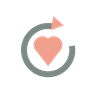
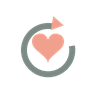
ui: 按压反馈强化(缩放+降透明)；心形SVG化(空心/实心形状不同)；朗读进度条；图标重绘
- 根因修复：hover-class 全部已挂但 .btn-press 仅 opacity.75 视觉不可察 →
  全局 .hover-dim/.btn-press 改 缩放.96+降透明，所有原生按钮/视图按压可见
- 收藏心形弃用 ♡/♥ 文字字形（部分机型字体把两个都渲染成实心，形状分不出）→
  SVG data-URI 贴图：圆润描边空心 vs 珊瑚实心，收藏前后形状+颜色双变化；随机抽查收藏按钮同步
- 朗读进度：speech.js onTimeUpdate → notify.progress(3%步进节流)，
  今日词条/例句 + 复习抽查词/例句下方出现细进度条（歌词式）
- 打卡成功 toast 12s默认 → 1.2s；试听按钮改自适应宽度（不再撑满整行）
- 图标重绘：今日对勾圆心对齐下方空白框几何中心(56)；复习爱心改参数曲线
  （16sin³t 经典心形，两瓣圆弧收拢，底尖圆润不尖锐）
- 测试台 75 项全过

Changed region(s): [[0.3125, 0.3438, 0.6875, 0.6875]]

diff --git a/miniprogram/utils/speech.js b/miniprogram/utils/speech.js
@@ -45,8 +45,8 @@ function setEngineMode(m) {
   return state.engineMode;
 }
 function setAccent(accent) { if (accent === 'uk' || accent === 'us') state.accent = accent; }
-function notify(text, playing, mode) {
-  const p = { text: text || '', playing: !!playing, source: usedSource || '', mode: mode || (state.queueMode ? 'queue' : (playing ? 'single' : 'idle')) };
+function notify(text, playing, mode, progress) {
+  const p = { text: text || '', playing: !!playing, source: usedSource || '', mode: mode || (state.queueMode ? 'queue' : (playing ? 'single' : 'idle')), progress: typeof progress === 'number' ? progress : 0 };
   state.listeners.slice().forEach(fn => { try { fn(p); } catch (e) {} });
 }
 
@@ -163,7 +163,18 @@ function playSrc(src, isFile, onResult, timeoutMs, rate) {
     if (token !== playToken || started) return;
     failNotes.push(host + ' 未出声'); cleanup(); state.playing = false; onResult(false);
   }, timeoutMs || 6000);
-  audio.onPlay(() => { if (token !== playToken) return; started = true; state.playing = true; });
+  audio.onPlay(() => { if (token !== playToken) return; started = true; state.playing = true; lastPct = 0; });
+  // 朗读进度：InnerAudioContext 时序回调 → 通知订阅方（页面画细进度条）。≥3% 才推，避免刷屏
+  let lastPct = 0;
+  audio.onTimeUpdate(() => {
+    if (token !== playToken || !state.playing) return;
+    const dur = audio.duration || 0;
+    if (!dur) return;
+    const pct = Math.min(1, audio.currentTime / dur);
+    if (pct - lastPct < 0.03 && pct < 1) return;
+    lastPct = pct;
+    notify(state.playingText, true, null, pct);
+  });
   audio.onEnded(() => { if (token !== playToken) return; cleanup(); state.playing = false; onResult(true); });
   audio.onError(err => {
     if (token !== playToken) return;

diff --git a/miniprogram/pages/today/today.js b/miniprogram/pages/today/today.js
@@ -32,7 +32,7 @@ Page({
     speech.setEngine(store.get('engine'));
     speech.setEngineMode(store.get('engineMode') || 'auto');
     this._offSpeech = speech.onStateChange((payload) => {
-      this.setData({ playingText: payload.playing ? payload.text : '', playingMode: payload.mode });
+      this.setData({ playingText: payload.playing ? payload.text : '', playingMode: payload.mode, playPct: Math.round((payload.progress || 0) * 100) });
     });
     this.setData({ pluginOk: ok });
   },
@@ -114,7 +114,7 @@ Page({
     const info = plan.dayInfo(this.data.viewDay);
     const now = store.toggleCheck(info.wIdx + 1, info.k);
     this.setData({ checked: now });
-    if (now) wx.showToast({ title: '打卡成功', icon: 'success' });
+    if (now) wx.showToast({ title: '打卡成功', icon: 'success', duration: 1200 });
   },
 
   // ---- 朗读 ----

diff --git a/miniprogram/pages/review/review.js b/miniprogram/pages/review/review.js
@@ -17,7 +17,7 @@ Page({
   onLoad() {
     // 监听器返回取消函数，页面卸载时注销（旧实现会永久堆积回调）
     this._offSpeech = speech.onStateChange((payload) => {
-      this.setData({ playingWord: payload.playing ? payload.text : '' });
+      this.setData({ playingWord: payload.playing ? payload.text : '', playPct: Math.round((payload.progress || 0) * 100) });
     });
   },
 
